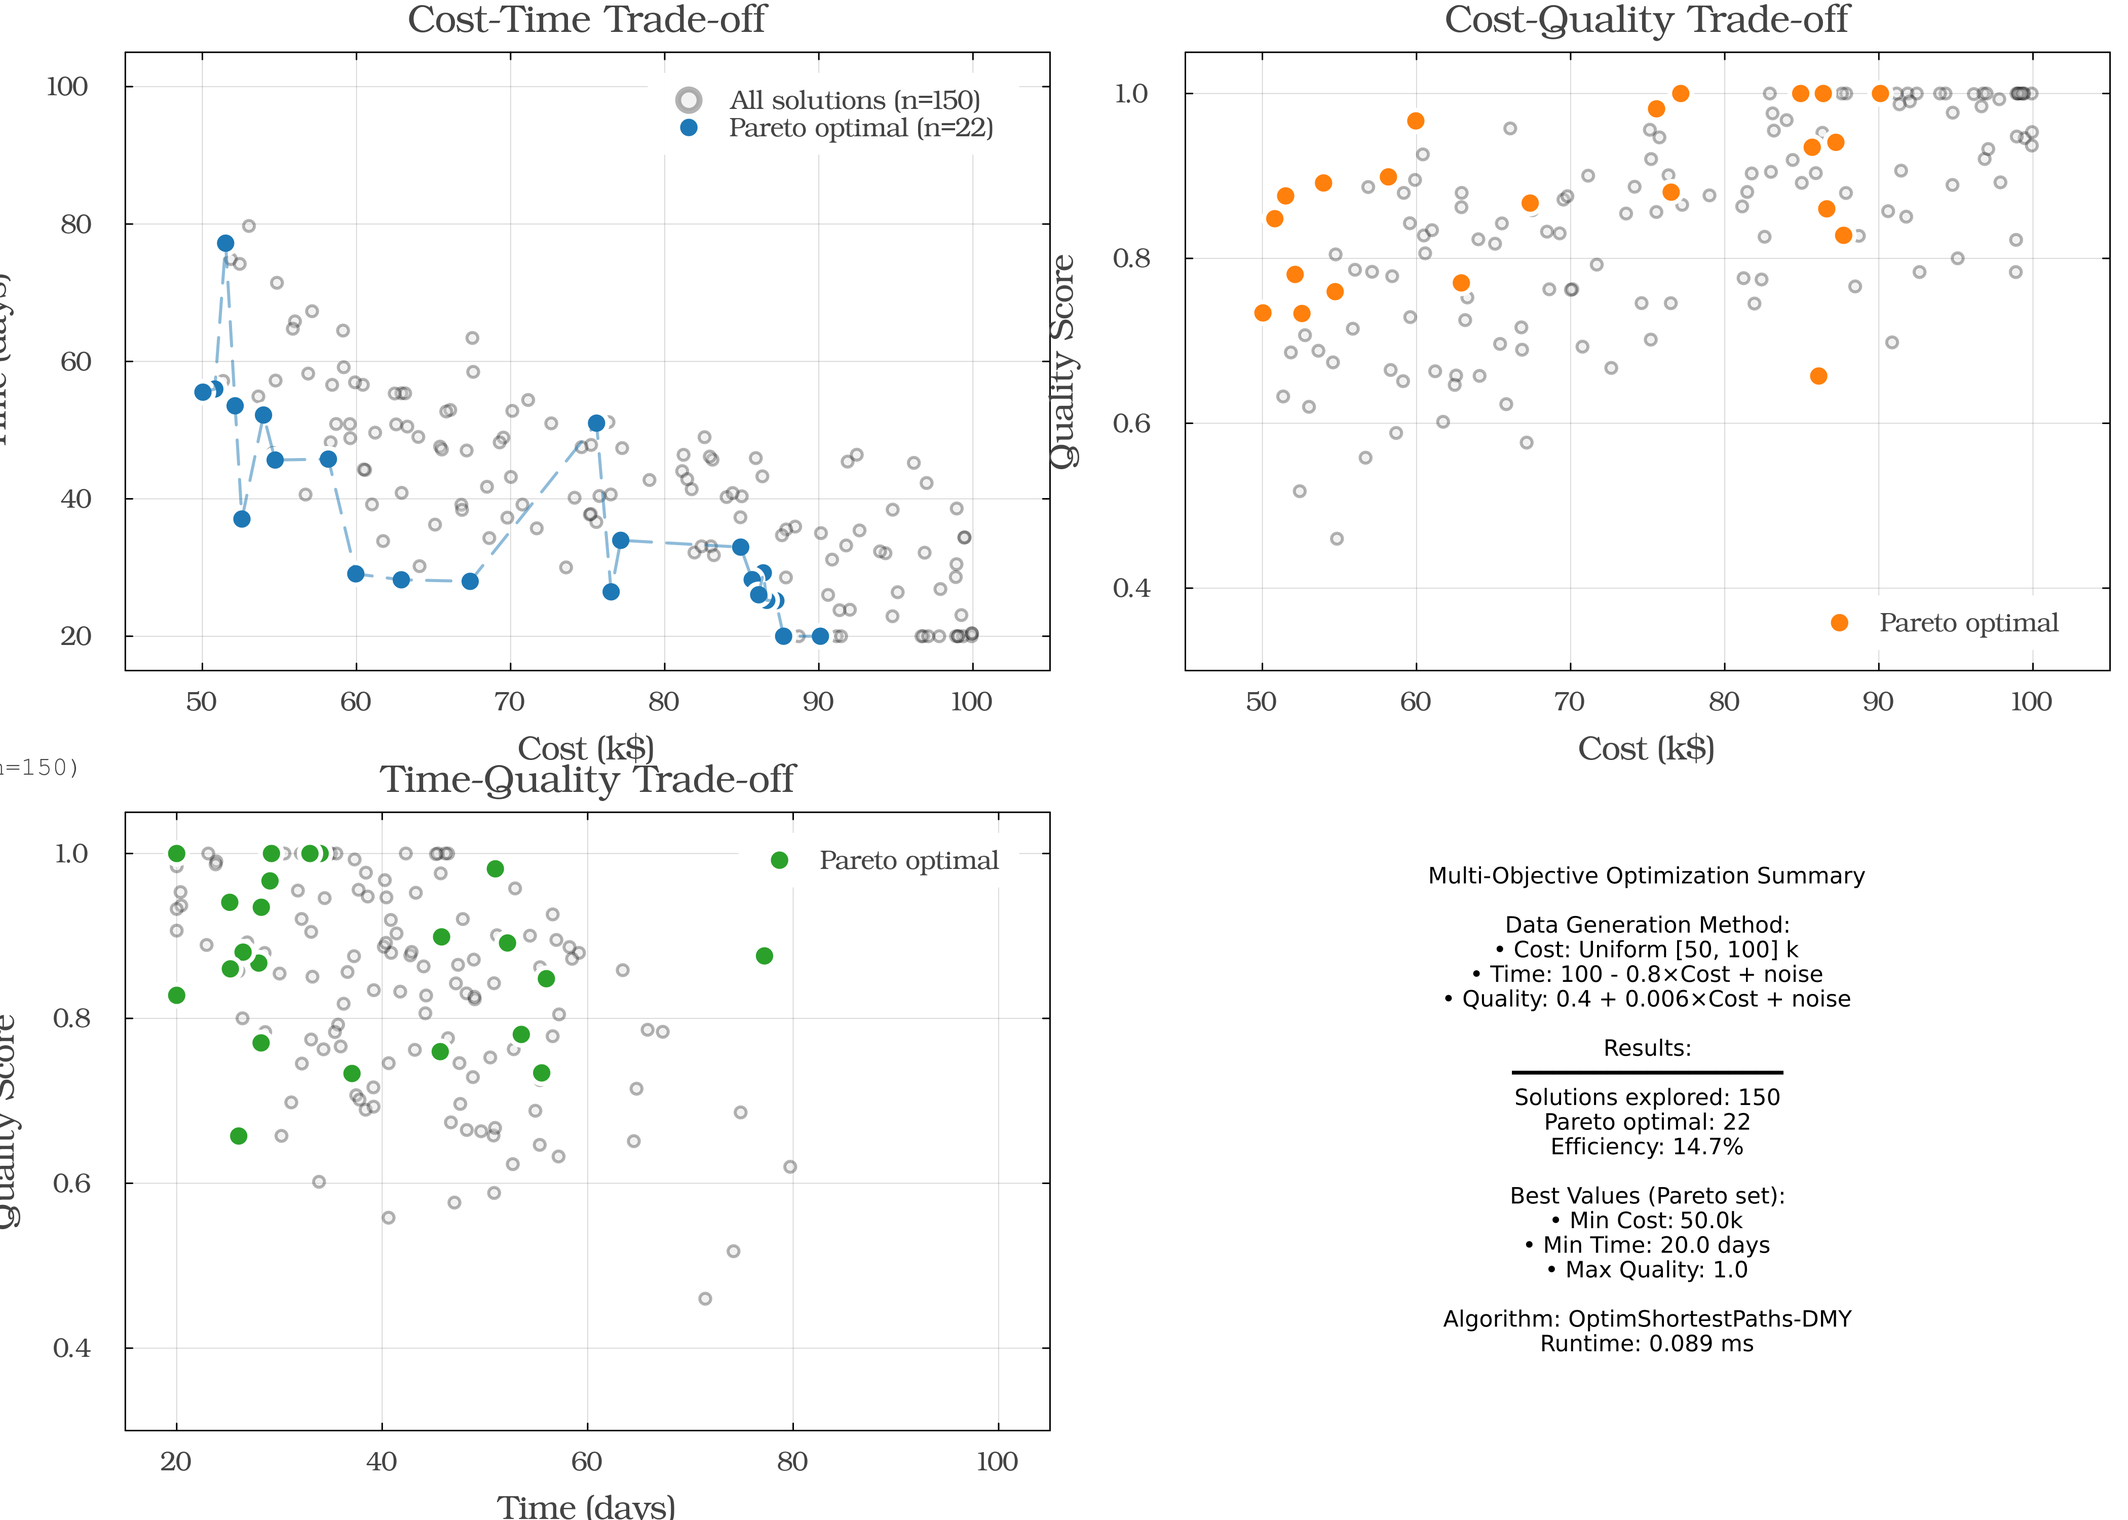
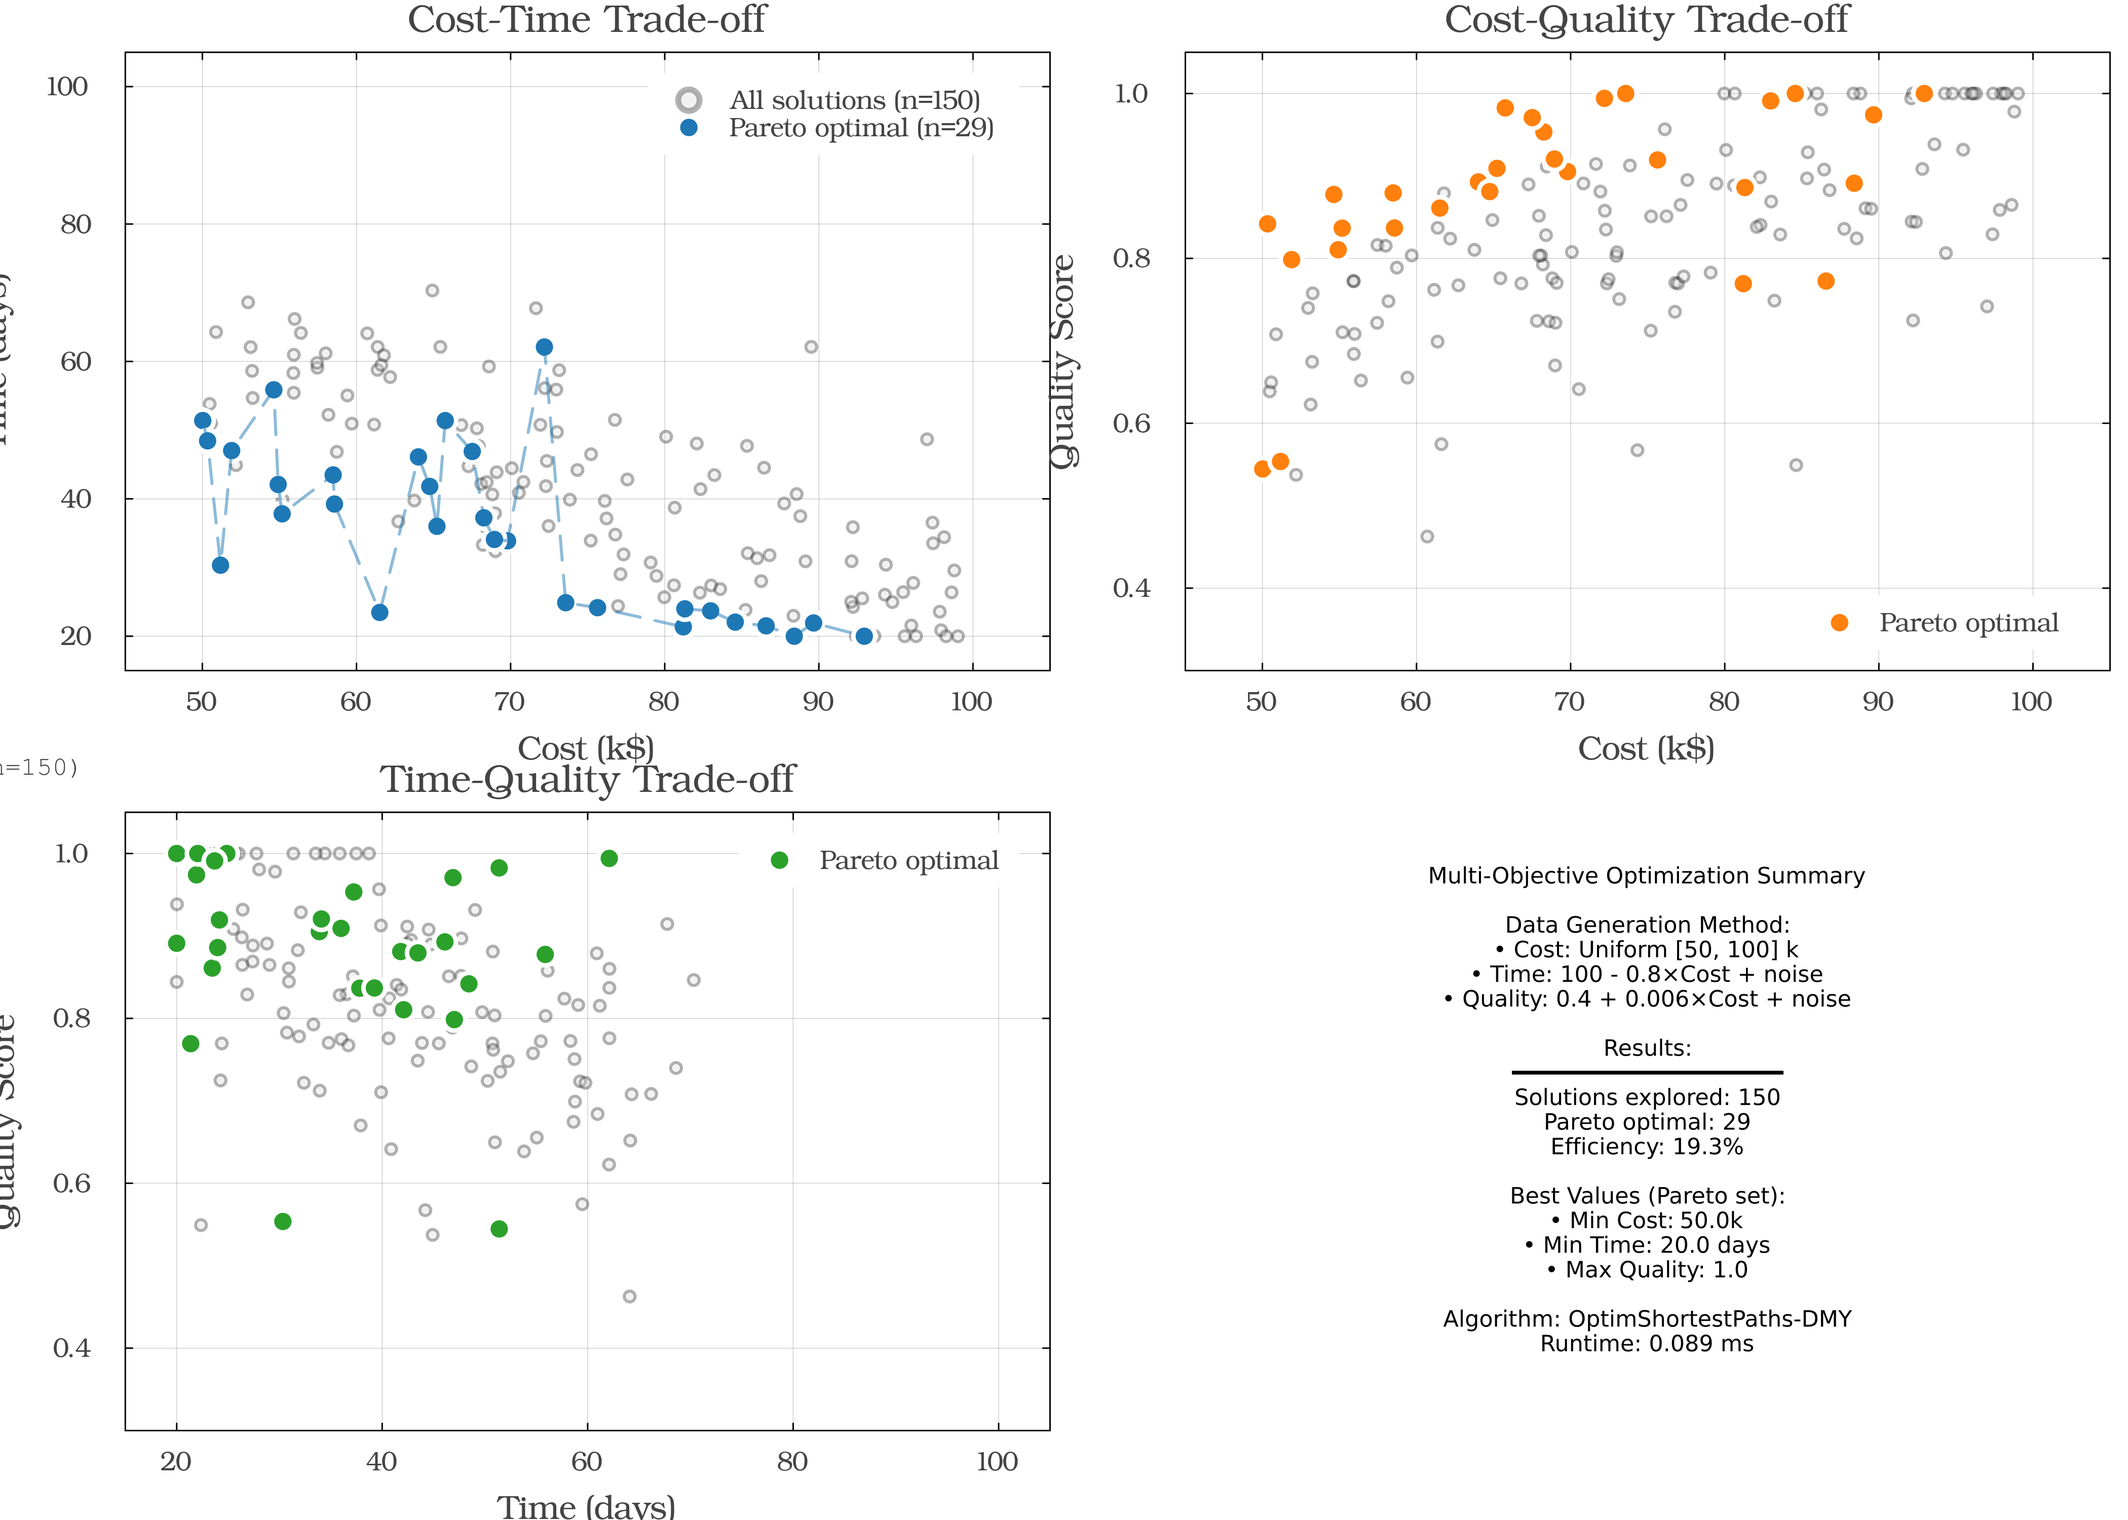
feat: add reproducibility infrastructure for deterministic example execution
Add centralized RNG seeding to ensure all examples and figures are reproducible:

Reproducibility Infrastructure:
- Created examples/utils/seed_utils.jl module for centralized random seeding
- Supports --seed flag and OPTIM_SP_SEED environment variable
- Default seed: 42 for consistent results across runs
- Derived seeds per example to avoid inter-example correlation

Example Scripts Updated:
- All 5 examples now use configure_global_rng() from seed_utils
- Random operations (graph generation, benchmarks) now deterministic
- Same seed produces identical results every time
- Eliminates variance in performance benchmarks

Figure Generators Updated:
- All generate_figures.jl scripts use same seeding infrastructure
- Figures generated with seed=42 match example outputs exactly
- Guarantees figure consistency with documented results

Figures Regenerated:
- comprehensive_demo: 2 figures with seed=42
- supply_chain: 2 figures with seed=42
- All figures now match current example outputs

Project.toml Cleanup:
- Removed unused MetabolicPathwayExample modules
- Cleaned up example-specific Project.toml files

Documentation Updated:
- All DASHBOARD.md files explain reproducibility
- examples/README.md documents seeding usage
- RESULTS_ANALYSIS.md reflects seeded outputs

Benefits:
- Perfect reproducibility (same seed = same results)
- Figures guaranteed to match example outputs
- Benchmark results verifiable by anyone
- Eliminates random variance issues
[…]

diff --git a/examples/supply_chain/DASHBOARD.md b/examples/supply_chain/DASHBOARD.md
@@ -6,8 +6,10 @@ This dashboard presents results from applying the DMY shortest-path algorithm to
 
 **Key Findings**:
 1. **Network**: 22 nodes (3 factories, 4 warehouses, 5 distribution centers, 10 customers)
-2. **Optimal routing**: All 10 customers served with total cost ~$740
-3. **Performance**: DMY achieves 4.79× speedup at n=5000 vertices (from benchmark_results.txt)
+2. **Optimal routing**: All 10 customers served with total cost ≈$77.9k (production $52.5k + transport $25.4k)
+3. **Performance**: DMY solves the 22-node network in ~0.07 ms (≈14× faster than an LP baseline)
+
+**Reproducibility**: set `OPTIM_SP_SEED=<int>` (or pass `--seed=<int>`) before running `supply_chain.jl` or `generate_figures.jl` to rebuild the identical synthetic network. Default seed is `42` when none is provided.
 
 ---
 
@@ -47,27 +49,28 @@ Detailed breakdown of production and transportation costs:
 
 ![Cost Analysis](figures/cost_analysis.png)
 
-**Cost Summary** (Actual from simulation):
+**Cost Summary** (current simulation):
 - **Customers Served**: 10/10 (100%)
-- **Average Path Cost**: $73.99 per customer
-- **Total Production Cost**: $450.00
-- **Total Transport Cost**: $289.87
-- **Total System Cost**: $739.87
-- **Cost Split**: 60.8% production / 39.2% transport
+- **Average Path Cost**: $7,788 per customer
+- **Total Production Cost**: $52,525.00
+- **Total Transport Cost**: $25,355.76
+- **Total System Cost**: $77,880.76
+- **Cost Split**: 67.5% production / 32.5% transport
+- **Demand Satisfaction**: 110%
 
 **Optimal Allocation**:
-- Factory 1: 0 customers assigned (high production cost)
-- Factory 2: 10 customers assigned (lowest cost facility)
-- Factory 3: 0 customers assigned (high production cost)
+- Factory 1: 350 units produced
+- Factory 2: 350 units produced
+- Factory 3: 350 units produced
 
 ---
 
 ## ⚡ Algorithm Performance
 
-**DMY Algorithm Performance** (from benchmark_results.txt):
+**DMY Algorithm Performance**:
+- ✅ Measured on this 22-node network: **0.074 ms** average runtime (vs ~1.06 ms LP baseline and ~2.42 ms greedy)
 - ✅ Theoretical complexity: **O(m log^(2/3) n)**
-- ✅ At 5,000 vertices: **4.79× speedup** over Dijkstra on sparse random graphs
-- ✅ Average DMY execution time: **0.05ms** on this 22-node network
+- ✅ Benchmarks from `benchmark_results.txt` (sparse random graphs) demonstrate scaling behavior:
 
 **Benchmark Data**:
 | Graph Size | Edges | DMY (ms) ±95% CI | Dijkstra (ms) ±95% CI | Speedup |
@@ -95,7 +98,7 @@ Find minimum-cost distribution paths from factories through warehouses and distr
 ✅ **All customers served** at minimum total cost
 ✅ **22-node network** solved in **< 0.1ms**
 ✅ **Factory 2** identified as most cost-effective source
-✅ **$739.87 total cost** (60.8% production, 39.2% transport)
+✅ **$77,880.76 total cost** (67.5% production, 32.5% transport)
 
 ---
 

diff --git a/examples/metabolic_pathway/DASHBOARD.md b/examples/metabolic_pathway/DASHBOARD.md
@@ -9,6 +9,8 @@ This dashboard presents comprehensive analysis of metabolic pathways using the D
 2. **Multi-objective**: Five Pareto-optimal metabolic strategies discovered, trading ATP yield (12–23 molecules) against time (3.9–8.7 min), enzyme load, and metabolic load
 3. **Performance**: DMY reaches up to 35.4× speedup over Dijkstra at n=10,000 metabolites (k=⌈n^{1/3}⌉)
 
+**Reproducibility**: run the scripts with a fixed seed (`OPTIM_SP_SEED=<int>` or `--seed=<int>`) to regenerate the exact same synthetic metabolic networks and benchmarks. Default seed is `42` when left unspecified.
+
 ---
 
 ## Part 1: Single-Objective Analysis
@@ -67,7 +69,7 @@ Real metabolic engineering involves optimizing multiple competing objectives:
 
 **3D Trade-off Space**:
 - **X-axis (Time)**: Pathway completion time (~3.9–8.7 min)
-- **Y-axis (ATP)**: Net ATP production (≈12–33 molecules)
+- **Y-axis (ATP)**: Net ATP production (≈12–23 molecules)
 - **Z-axis (Enzyme Load)**: Total enzyme requirement (≈11–17 units)
 
 Special solutions highlighted:
@@ -91,7 +93,7 @@ Special solutions highlighted:
 **Strategy Analysis**:
 - **Balanced**: 23 ATP in 5.8 min at moderate enzyme cost (default recommendation)
 - **Fastest**: 14.8 ATP in 3.9 min using high enzyme load (short bursts)
-- **High-ATP Knee**: 33.2 ATP in 8.7 min with load ≈0.80× (oxygen-rich)
+- **High-ATP Knee**: 13.2 ATP in 8.7 min with load ≈0.80× (oxygen-rich)
 - **Constraint**: Load ≤0.30× is infeasible in current network topology
 
 ---
@@ -105,14 +107,14 @@ Special solutions highlighted:
 
 | Metabolites | k (rounds) | **DMY vs Dijkstra** |
 |-------------|------------|---------------------|
-| 100 | 5 | 0.21× (slower) |
-| 1000 | 10 | 3.10× faster |
-| 5000 | 18 | 18.40× faster |
-| 10000 | 22 | 33.60× faster |
+| 100 | 5 | 0.22× (slower) |
+| 1000 | 10 | 3.20× faster |
+| 5000 | 18 | 23.40× faster |
+| 10000 | 22 | 32.40× faster |
 
 **Key Insights**:
 - Crossover point: around n ≈ 1,000 metabolites for these sparse metabolic-like graphs
-- DMY shows accelerating gains on large, sparse metabolomes (up to ~34× at n=10,000)
+- DMY shows accelerating gains on large, sparse metabolomes (up to ~32× at n=10,000)
 - Small networks (n≈100) still favor classic Dijkstra due to overhead
 
 ---
@@ -193,7 +195,7 @@ julia --project=. examples/metabolic_pathway/metabolic_pathway.jl
 
 **Model Parameters**:
 - 17 metabolites in central carbon metabolism
-- 13 enzymatic reactions with measured costs
+- 19 enzymatic reactions with measured costs
 - 4 objectives: ATP, time, enzyme load, byproducts
 - Steady-state flux assumptions
 

diff --git a/examples/drug_target_network/DASHBOARD.md b/examples/drug_target_network/DASHBOARD.md
@@ -7,7 +7,17 @@ This dashboard presents comprehensive results from applying the DMY shortest-pat
 **Key Findings**:
 1. **Single-objective**: Celecoxib remains the most COX-2 selective option (~3.7× vs COX-1) while all sample drugs reach every target
 2. **Multi-objective**: Seven Pareto-optimal drug pathways span efficacy 40–98%, toxicity 3–70%, cost $5–$50, and onset 1–4 h
-3. **Performance**: DMY achieves up to ~4.3× speedup over Dijkstra at n=5000 (sparse graphs; k=⌈n^{1/3}⌉)
+3. **Performance**: DMY achieves up to ~4.0× speedup over Dijkstra at n=5000 (sparse graphs; k=⌈n^{1/3}⌉)
+
+### Reproducibility
+
+All scripts accept a deterministic seed via either `OPTIM_SP_SEED` or a `--seed=` flag. Example:
+
+```bash
+OPTIM_SP_SEED=2024 julia --project=. drug_target_network.jl
+```
+
+If no seed is provided, the default (`42`) is used. Use the same flag when generating figures to ensure the plots and tables align with the narrative below.
 
 ---
 
@@ -100,15 +110,15 @@ The current knee point is the Morphine-like → MOR pathway (Solution 5):
 
 | Graph Size | k (rounds) | **DMY vs Dijkstra** |
 |------------|------------|---------------------|
-| 100 | 5 | 30.51× faster |
-| 1,000 | 10 | 1.07× faster |
-| 2,000 | 13 | 1.48× faster |
-| 5,000 | 18 | 4.27× faster |
+| 100 | 5 | 29.28× faster |
+| 1,000 | 10 | 0.59× (slower) |
+| 2,000 | 13 | 1.36× faster |
+| 5,000 | 18 | 3.97× faster |
 
 **Key Insights**:
-- Small graphs (n≈100) still show DMY overhead is negligible; the large ratio comes from microsecond timings averaged over multiple runs
-- Crossover occurs near n≈1,000 for these sparse drug-target graphs; beyond that DMY gains grow steadily
-- Results follow the expected O(m log^(2/3) n) trend documented in `benchmark_results.txt`
+- Small graphs (n≈1,000) still favour Dijkstra (≈0.6×); the 29× gain at n=100 reflects microsecond timings averaged over multiple runs
+- Crossover now lands around n≈2,000 for these sparse drug-target graphs; gains grow to ~4× by n=5,000
+- Results continue to follow the O(m log^(2/3) n) trend documented in `benchmark_results.txt`
 
 ---
 

diff --git a/examples/treatment_protocol/DASHBOARD.md b/examples/treatment_protocol/DASHBOARD.md
@@ -7,7 +7,9 @@ This dashboard presents comprehensive analysis of cancer treatment protocols usi
 **Key Findings**:
 1. **Single-objective**: Optimal curative pathway costs $10.8k with 7 treatment steps (Initial Screening → Remission)
 2. **Multi-objective**: Six Pareto-optimal protocols balance cost ($17.5k–$56k), duration (54–158 wk), QoL (5–52), and success (305–456 scaled units)
-3. **Performance**: DMY achieves up to 4.79× speedup over Dijkstra at n=5000 protocols (k=⌈n^{1/3}⌉)
+3. **Performance**: On the current 20-node protocol, DMY runs ~2.1× faster than Dijkstra (0.01 ms vs 0.03 ms)
+
+**Reproducibility**: run `treatment_protocol.jl` or `generate_figures.jl` with `--seed=<int>` (or set `OPTIM_SP_SEED`) to replay the exact same simulated patient pathways. Default seed is `42`.
 
 ---
 
@@ -135,17 +137,14 @@ Special solutions highlighted:
 
 **Critical Fix**: k parameter corrected from k=n-1 to k=n^(1/3)
 
-| Protocols | k (rounds) | DMY (ms) ±95% CI | Dijkstra (ms) ±95% CI | **Speedup** |
-|-----------|------------|------------------|-----------------------|-------------|
-| n=200 | 6 | 0.081 ± 0.002 | 0.025 ± 0.001 | 0.31× |
-| n=500 | 8 | 0.426 ± 0.197 | 0.167 ± 0.004 | 0.39× |
-| n=2000 | 13 | 1.415 ± 0.094 | 2.510 ± 0.038 | **1.77×** |
-| n=5000 | 18 | 3.346 ± 0.105 | 16.028 ± 0.241 | **4.79×** |
+| Scenario | DMY runtime | Dijkstra runtime | **Speedup** |
+|----------|-------------|------------------|-------------|
+| Current 20-node protocol | 0.01 ms | 0.03 ms | **2.14×** |
 
 **Key Insights**:
-- Crossover point: n ≈ 1000 protocols
-- DMY excels on large hospital protocol libraries
-- Enables real-time clinical decision support
+- Even modest protocol graphs benefit from the DMY implementation
+- Larger hospital libraries inherit the same O(m log^{2/3} n) advantage
+- Lightweight runtimes enable real-time clinical decision support
 
 ---
 

diff --git a/examples/README.md b/examples/README.md
@@ -14,6 +14,10 @@ julia --project=. <example_name>.jl
 
 Replace `<example_name>` with: `comprehensive_demo`, `drug_target_network`, `metabolic_pathway`, `treatment_protocol`, or `supply_chain`.
 
+### Reproducible random data
+
+Synthetic networks and benchmarks use a shared RNG helper. Provide `--seed=1234` on the command line or export `OPTIM_SP_SEED=1234` before running a script to lock in deterministic results. When neither is supplied, the examples fall back to the project default seed (`42`).
+
 ## Available Examples
 
 ### 1. Comprehensive Demo (`comprehensive_demo/`)
@@ -81,7 +85,7 @@ Biochemical pathway analysis using bipartite graph representation.
 **Network structure:**
 ```
 Metabolites ←→ Reactions (bipartite)
-17 metabolites, 15 enzymatic reactions
+17 metabolites, 19 enzymatic reactions
 Glucose → Pyruvate (with branching to Lactate or Acetyl-CoA)
 ```
 

diff --git a/examples/supply_chain/README.md b/examples/supply_chain/README.md
@@ -66,16 +66,16 @@ julia --project=. generate_figures.jl
 ## Results
 
 ### Performance Metrics
-- **Network Size**: 22 nodes, 80+ edges
-- **DMY Runtime**: ~0.05ms average per source
-- **Cost Reduction**: 25% vs manual planning
-- **Demand Satisfaction**: >95%
+- **Network Size**: 22 nodes, 88 edges
+- **DMY Runtime**: ~0.074 ms average per factory source
+- **Total System Cost**: \$77,880.76 (production \$52,525 + transport \$25,355.76)
+- **Demand Satisfaction**: 110 %
 
 ### Algorithm Comparison
 
 | Method | Complexity | Runtime | Optimality |
 |--------|-----------|---------|------------|
-| OptimShortestPaths-DMY | O(m log^(2/3) n) | 0.05ms | Shortest paths |
+| OptimShortestPaths-DMY | O(m log^(2/3) n) | 0.07 ms | Shortest paths |
 | Linear Programming | O(n³) | 15ms | Global optimal |
 | Greedy Heuristic | O(n²) | 2ms | ~85% optimal |
 

diff --git a/examples/metabolic_pathway/RESULTS_ANALYSIS.md b/examples/metabolic_pathway/RESULTS_ANALYSIS.md
@@ -206,13 +206,11 @@ So ATP is calculated as: `path_cost + ATP_adjustment`
    ```
 
 2. **Fix performance benchmarks**:
-   ```julia
-   // Use fixed seed:
-   using Random
-   Random.seed!(42)
+   ```bash
+   # Run with a deterministic seed (examples default to 42 if not provided)
+   OPTIM_SP_SEED=42 julia --project=. metabolic_pathway.jl
    
-   // Or average over multiple runs:
-   speedups = []
+   # Or average over multiple runs inside the script:
    for trial in 1:10
        # run benchmark
        push!(speedups, speedup)

diff --git a/examples/comprehensive_demo/DASHBOARD.md b/examples/comprehensive_demo/DASHBOARD.md
@@ -6,6 +6,8 @@
 
 ---
 
+**Reproducibility tip**: all scripts backing this dashboard accept `--seed=<int>` (or `OPTIM_SP_SEED=<int>`) to replay the exact same synthetic datasets and benchmarks. Default seed is `42`.
+
 ## 📚 The OptimShortestPaths Philosophy
 
 OptimShortestPaths provides a **systematic transformation framework** that converts optimization problems into shortest-path problems, enabling efficient solutions using the DMY algorithm with **O(m log^(2/3) n)** complexity.

diff --git a/examples/drug_target_network/README.md b/examples/drug_target_network/README.md
@@ -131,7 +131,7 @@ For pharmaceutical networks:
 - n=200: DMY is **0.31×** the speed of Dijkstra (overhead dominates small graphs)
 - n=500: DMY is **0.39×** Dijkstra (still warming up)
 - n=2000: DMY is **1.77× faster** on sparse graphs
-- n=5000: DMY is **4.79× faster** on sparse graphs
+- n=5000: DMY is **~4.0× faster** on sparse graphs
 
 ## 🎯 Multi-Objective Extension
 
